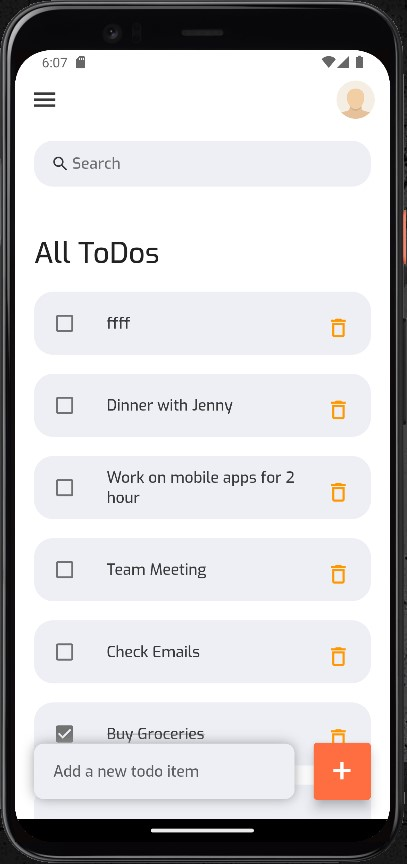
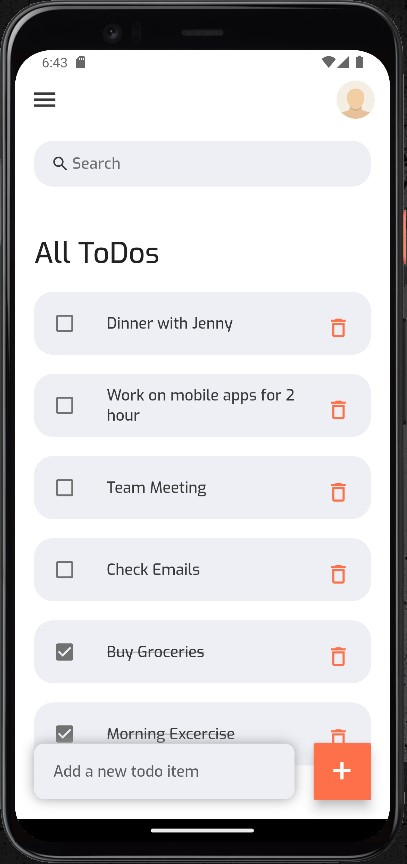
feat: update button color

diff --git a/lib/screens/home.dart b/lib/screens/home.dart
@@ -110,12 +110,18 @@ class _HomePageState extends State<HomePage> {
                   bottom: 20,
                   right: 20,
                 ),
+                decoration: const BoxDecoration(
+                  image: DecorationImage(
+                    image: AssetImage(AppAssets.loginBtn),
+                    fit: BoxFit.cover,
+                  ),
+                ),
                 child: ElevatedButton(
                   onPressed: () {
                     _addToDoItem(_todoController.text);
                   },
                   style: ElevatedButton.styleFrom(
-                    backgroundColor: tdDeepOrangeAccent,
+                    backgroundColor: tdButtonColor,
                     minimumSize: const Size(60, 60),
                     elevation: 10,
                   ),

diff --git a/lib/widgets/todo_item.dart b/lib/widgets/todo_item.dart
@@ -77,11 +77,9 @@ class ToDoItem extends StatelessWidget {
           width: 35,
           child: IconButton(
             icon: const Icon(Icons.delete_outline),
-            color: Colors.orange[500],
+            color: tdButtonColor,
             iconSize: 26,
             onPressed: () {
-              // print('Clicked on delete icon');
-              // onDeleteItem(todo.id);
               _showDeleteConfirmationDialog(context, todo.id);
             },
           ),

diff --git a/lib/constants/colors.dart b/lib/constants/colors.dart
@@ -12,3 +12,4 @@ const Color tdGrey = Color(0xFF717171);
 const Color tdBGColor = Colors.white; //Color(0xFFEEEFF5);
 
 const Color tdInputBgColor = Color(0xFFEEEFF5);
+const Color tdButtonColor = Color.fromARGB(255, 253, 112, 73);
